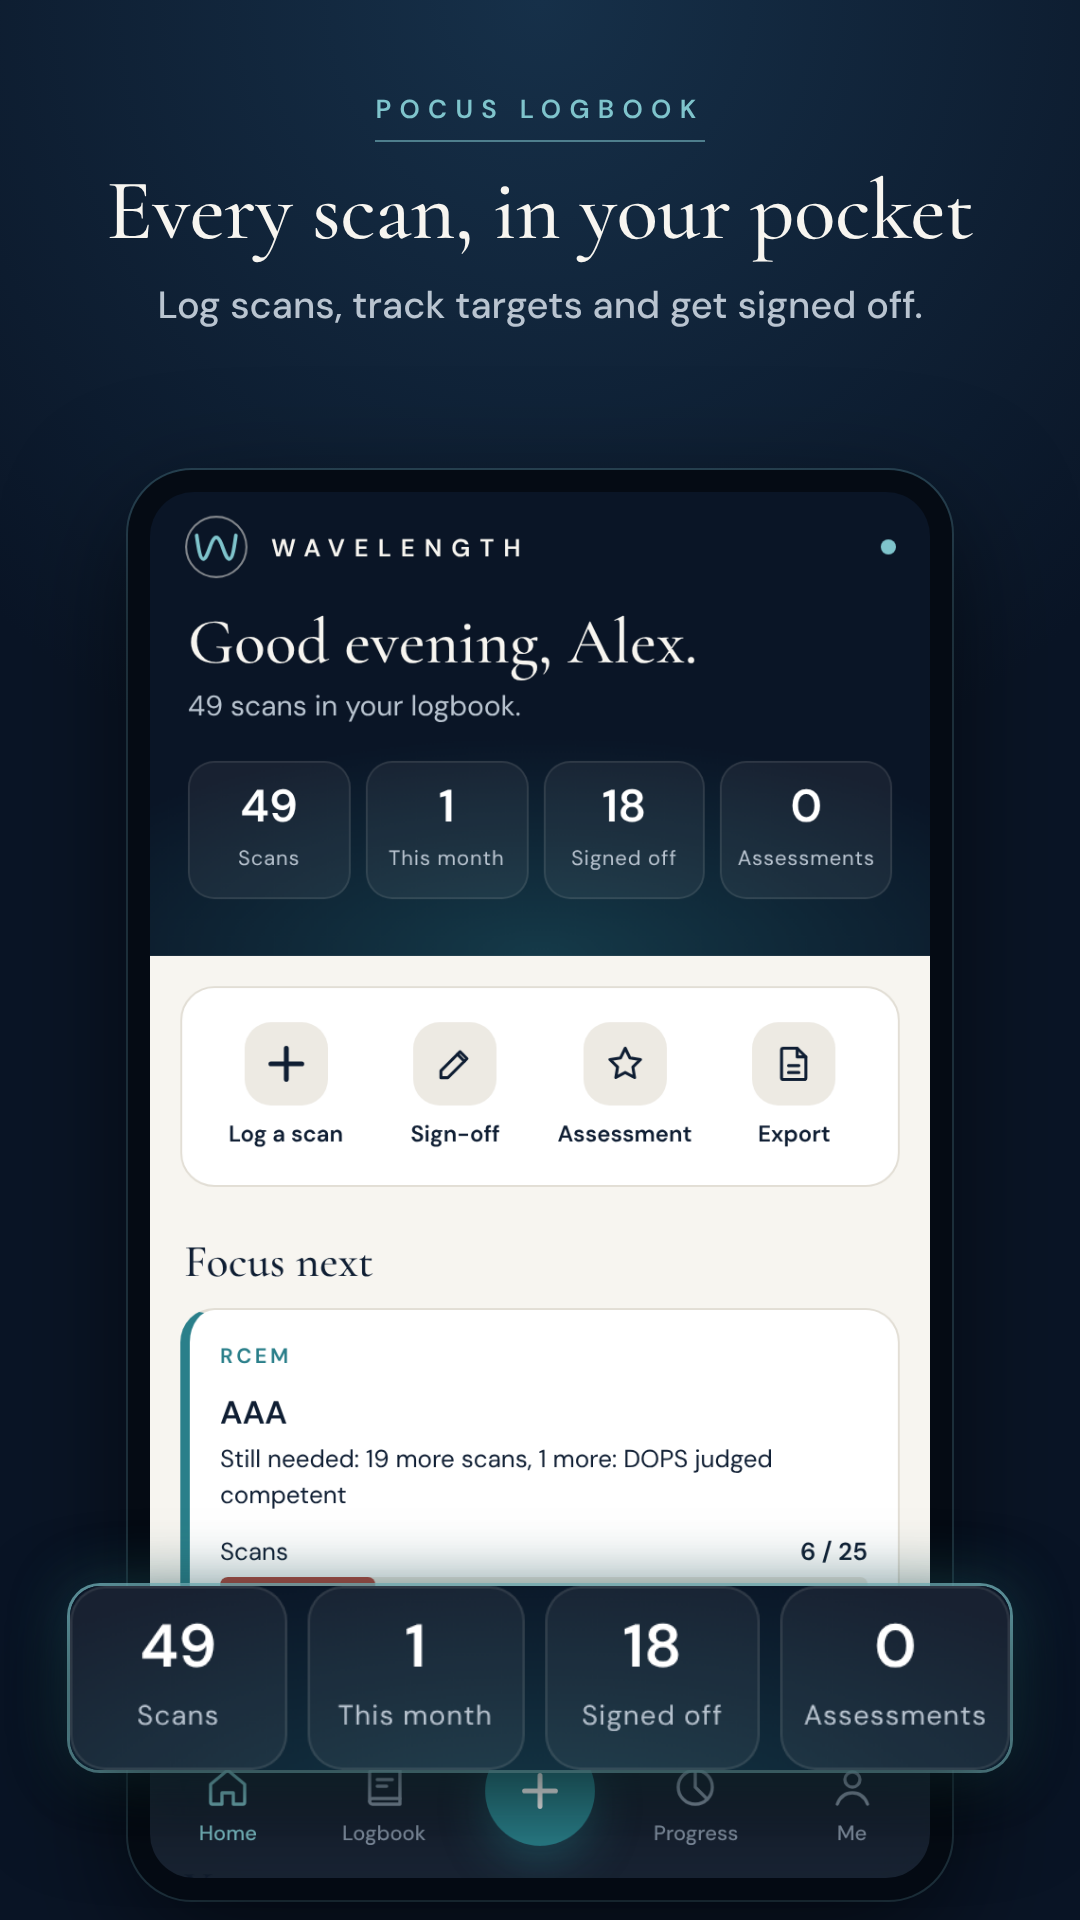
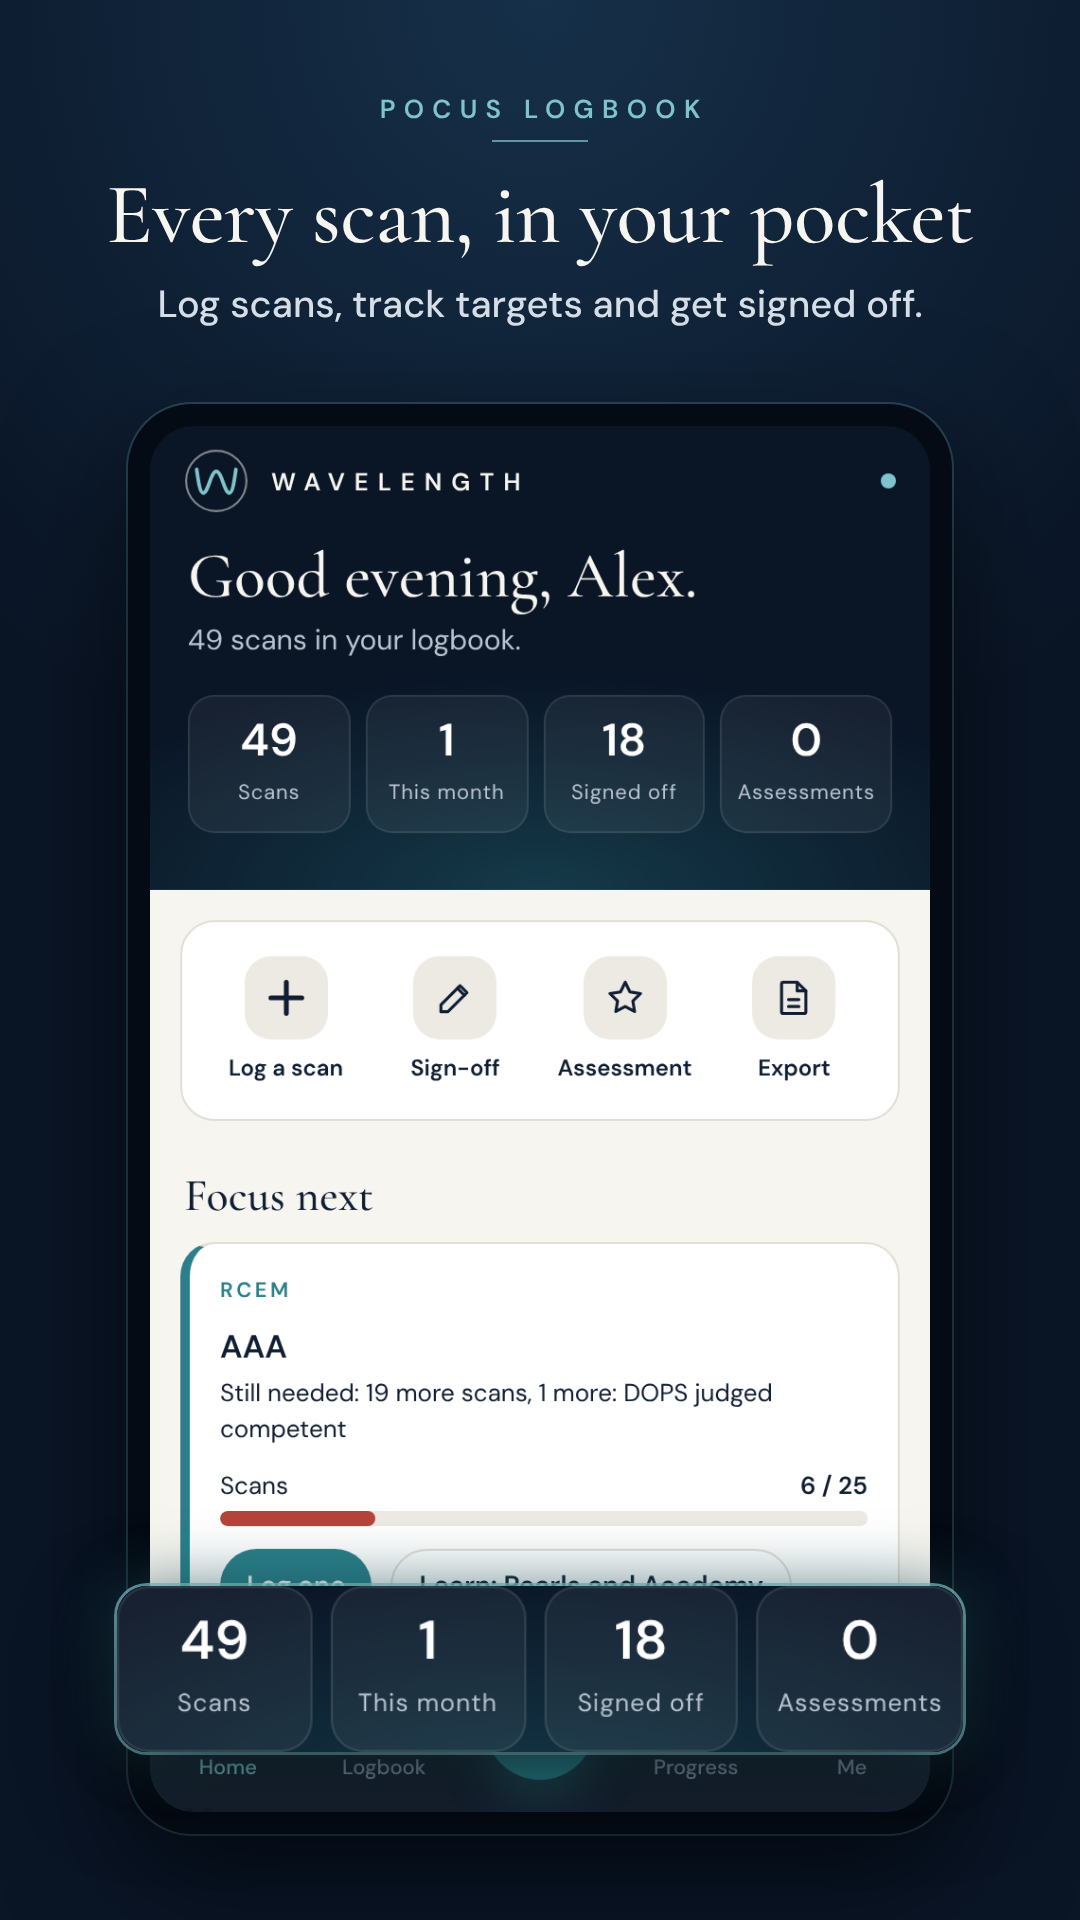
Store listing images: final polish and listing order
Captions sit on one fixed grid (eyebrow, a 96 px teal rule, headline and subtitle at the same height on all six), subtitles are brighter, the phone sits higher, and the callouts are about 10% smaller so more of the app shows. Order: what it is, logging speed, progress, sign-off, verifiable evidence, privacy.

Claude-Session: https://claude.ai/code/session_01QWe5vS35XxPetTJkvTJWTH

diff --git a/mobile/STORE.md b/mobile/STORE.md
@@ -34,7 +34,7 @@ The automated harness (`tools/e2e-native.mjs`) does not replace real phones. On 
 
 ## Listing images
 
-`mobile/store/`: six phone screenshots (1080x1920, captioned, from the real app with an invented sample logbook), the Google Play feature graphic (1024x500) and the 512 px icon. Regenerate after visible app changes: build the bundle, run the local Worker, then `node tools/store-shots.mjs <outdir>` and copy the `play-*.png` files here as RGB PNGs.
+`mobile/store/`: six phone screenshots (1080x1920, captioned, from the real app with an invented sample logbook; upload them in their numbered order: what it is, logging speed, progress, sign-off, verifiable evidence, privacy), the Google Play feature graphic (1024x500) and the 512 px icon. Regenerate after visible app changes: build the bundle, run the local Worker, then `node tools/store-shots.mjs <outdir>` and copy the `play-*.png` files here as RGB PNGs.
 
 ## Listing text (English)
 
